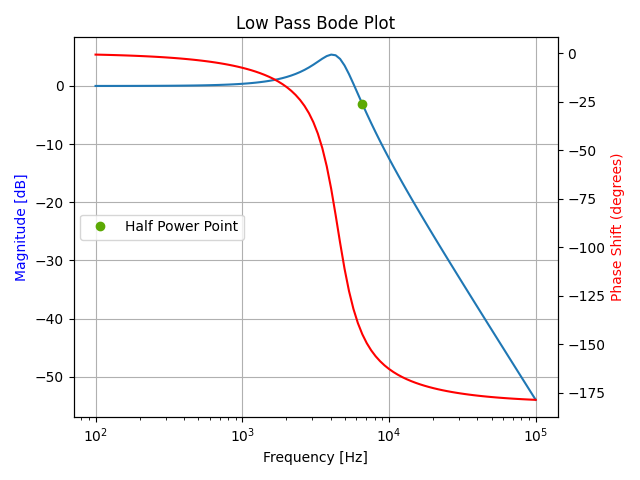
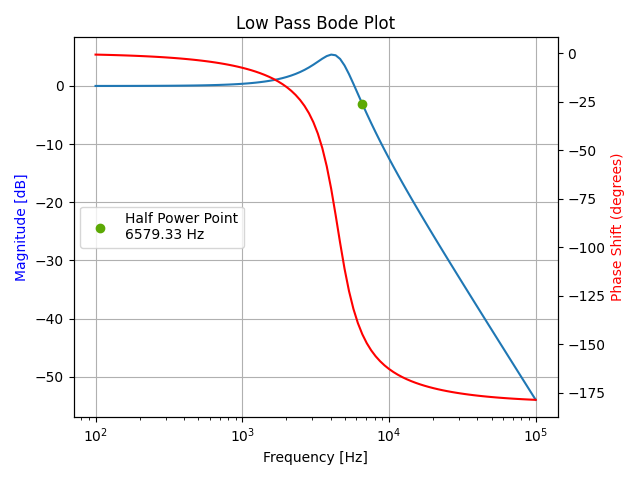
Finished lab 9

Changed region(s): [[0.125, 0.4375, 0.375, 0.5312]]

diff --git a/Lab9/DAVIS_ece2260_lab9_audio.py b/Lab9/DAVIS_ece2260_lab9_audio.py
@@ -32,6 +32,9 @@ def makePlot(num, den, title="", fout="out.png"):
     for i in range(len(mag_plus3)):
         if abs(mag_plus3[i]) == mag_min:
             mag_index = i
+    
+    x = w[mag_index]
+    y = mag[mag_index]
 
     fig, ax1 = plt.subplots()
     ax1.set_title(title)
@@ -39,7 +42,7 @@ def makePlot(num, den, title="", fout="out.png"):
     ax1.set_xlabel('Frequency [Hz]')
     ax1.set_ylabel('Magnitude [dB]', color="blue")
     ax1.semilogx(w, mag)
-    ax1.plot(w[mag_index], mag[mag_index], 'o', color="xkcd:leaf green", label="Half Power Point")
+    ax1.plot(x, y, 'o', color="xkcd:leaf green", label="Half Power Point\n%g Hz" % x)
     ax1.legend(loc="center left")
     ax1.grid(True)
 
